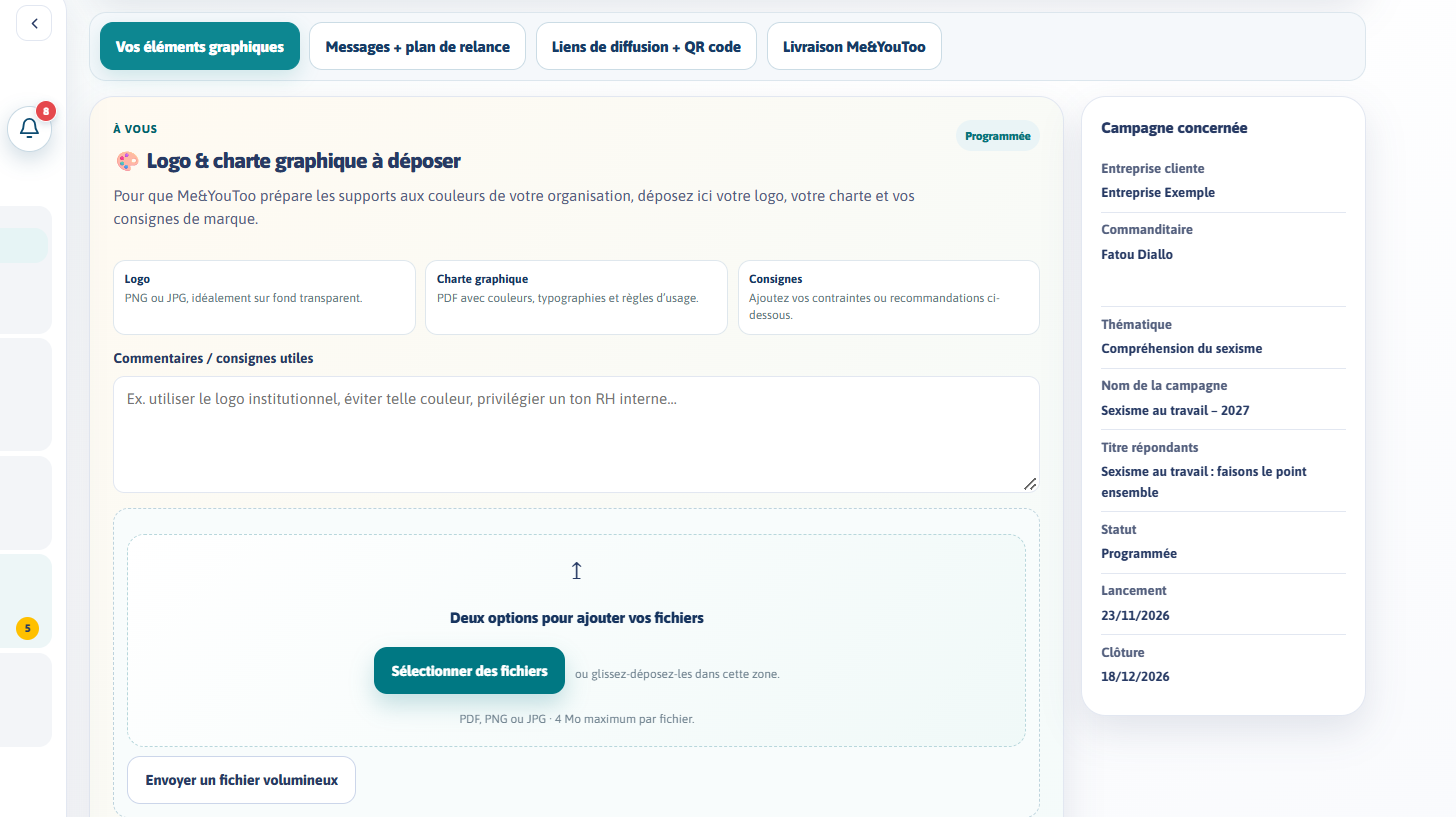
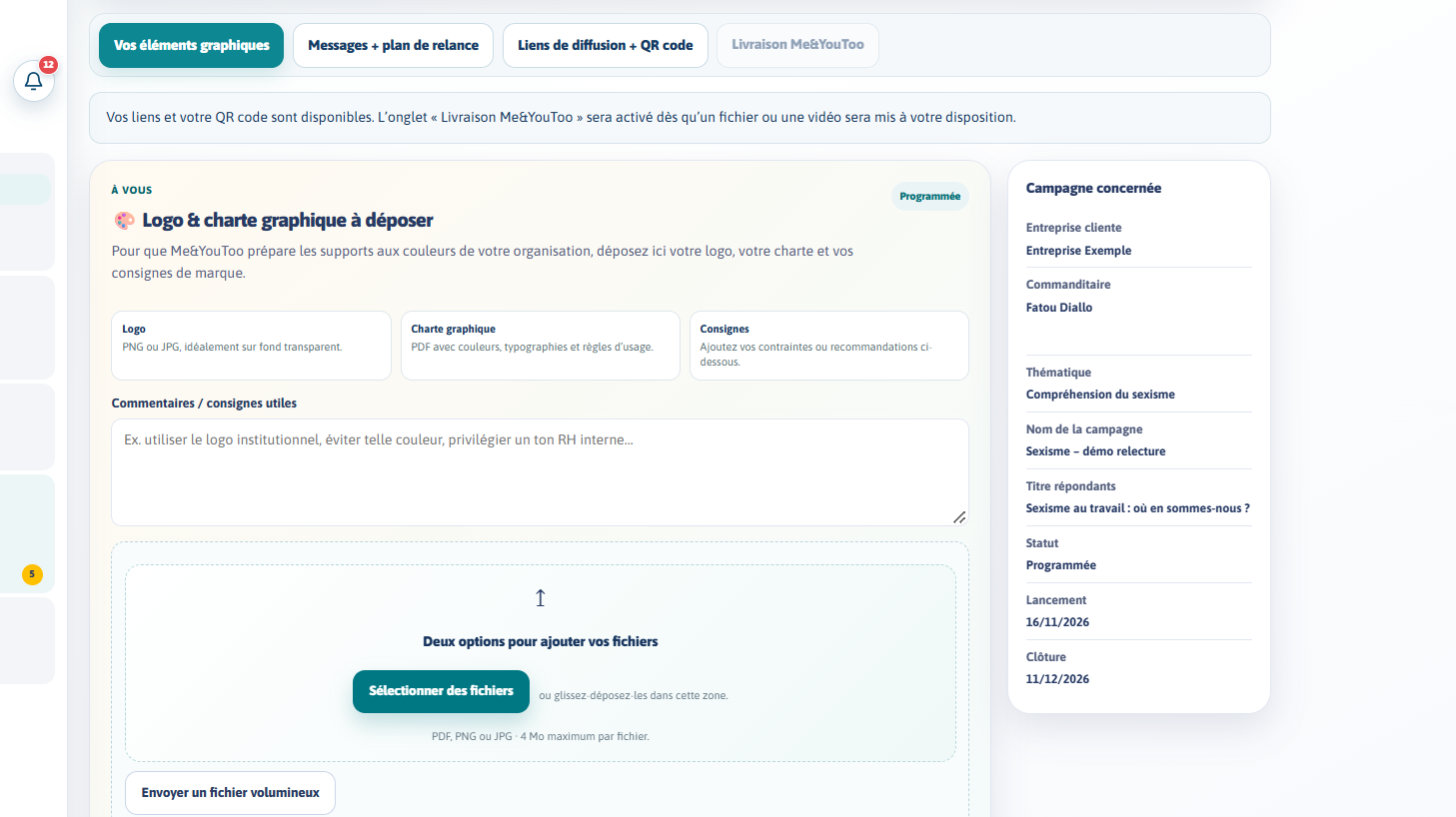
Tutoriel Diffuser : onglet Livraison grisé sur tous les écrans avant livraison

diff --git a/tutos/diffuser/index.html b/tutos/diffuser/index.html
@@ -12,7 +12,7 @@
 <script>
 // Captures du 3 novembre 2026 : compte de démonstration Fatou Diallo, Entreprise Exemple, campagne #348
 // (Sexisme au travail – 2027, programmée) ; adresse e-mail de la commanditaire masquée.
-// Captures 1 et 5 refaites le 4 novembre 2026 (nouveau QR code) ; la 1 vient de la campagne #350, sans livraison : l’onglet « Livraison Me&YouToo » y est grisé.
+// Captures 1, 2, 3 et 5 refaites le 4 novembre 2026 sur la campagne #350, sans livraison : l’onglet « Livraison Me&YouToo » y est grisé (nouveau QR code). La 6 reste sur #348, qui a des fichiers livrés.
 // Cadres en % de la capture : [gauche, haut, largeur, hauteur]. Pour caler la voix : audio:'voix.mp3' et « at » (secondes) sur chaque plan.
 window.TUTO={
   eyebrow:'Tutoriel · Après la transmission',
@@ -23,12 +23,12 @@ window.TUTO={
     {img:'ecran-1.png',box:[7.4,36.4,89.6,14.4],text:'Le Studio vous montre où vous en êtes, étape par étape, de la composition de votre diagnostic jusqu’au kit livré par Me&YouToo.'},
     {img:'ecran-1.png',box:[6.4,56.2,61.5,7.4],text:'Le kit s’organise en quatre onglets : vos éléments graphiques, les messages et le plan de relance, les liens et le QR code, et la livraison Me&YouToo.'},
     {img:'ecran-1.png',box:[54.6,56.3,13.2,7.1],text:'L’onglet « Livraison Me&YouToo » reste grisé tant que notre équipe n’a rien déposé. Il s’active dès qu’un fichier ou une vidéo est à votre disposition.'},
-    {img:'ecran-2.png',box:[7.8,11.8,64.6,29],text:'Premier onglet : déposez votre logo, votre charte graphique et vos consignes. Me&YouToo prépare les supports à vos couleurs.'},
-    {img:'ecran-2.png',box:[7.8,62.4,64.6,30],text:'Glissez vos fichiers dans cette zone, ou utilisez « Envoyer un fichier volumineux » si vos documents sont trop lourds pour être déposés ici.'},
-    {img:'ecran-3.png',box:[7.8,11.8,64.6,54.7],text:'Deuxième onglet : le plan de relance conseillé, avec les dates calculées pour votre campagne. Vous savez ainsi quand communiquer, du lancement à la clôture.'},
+    {img:'ecran-2.png',box:[6.2,19.6,61.8,27.1],text:'Premier onglet : déposez votre logo, votre charte graphique et vos consignes. Me&YouToo prépare les supports à vos couleurs.'},
+    {img:'ecran-2.png',box:[7.6,66.3,59,33.4],text:'Glissez vos fichiers dans cette zone, ou utilisez « Envoyer un fichier volumineux » si vos documents sont trop lourds pour être déposés ici.'},
+    {img:'ecran-3.png',box:[6.1,21.9,70.3,57.3],text:'Deuxième onglet : le plan de relance conseillé, avec les dates calculées pour votre campagne. Vous savez ainsi quand communiquer, du lancement à la clôture.'},
     {img:'ecran-4.png',box:[7.8,1.4,64.6,97.6],text:'Des messages prêts à copier : e-mail de lancement, message aux managers, relances, Teams ou Slack, intranet. Ils contiennent déjà le nom, les dates et le lien de votre campagne.'},
-    {img:'ecran-5.png',box:[5.7,10.6,65.6,38.6],text:'Troisième onglet : le lien de votre campagne et celui de vos résultats. Ne diffusez pas le lien avant la date de lancement.'},
-    {img:'ecran-5.png',box:[5.7,50.9,65.6,46.2],text:'Le QR code est créé automatiquement à partir du lien de votre campagne, avec votre logo s’il est renseigné dans votre compte. Téléchargez-le en PNG, ou en SVG pour l’impression.'},
+    {img:'ecran-5.png',box:[6.2,18.4,61.8,36.2],text:'Troisième onglet : le lien de votre campagne et celui de vos résultats. Ne diffusez pas le lien avant la date de lancement.'},
+    {img:'ecran-5.png',box:[6.2,56.6,61.8,43],text:'Le QR code est créé automatiquement à partir du lien de votre campagne, avec votre logo s’il est renseigné dans votre compte. Téléchargez-le en PNG, ou en SVG pour l’impression.'},
     {img:'ecran-6.png',box:[7.8,17.8,64.6,66.4],text:'Dernier onglet, une fois activé : les affiches, visuels et vidéos préparés par Me&YouToo. Vous êtes averti par e-mail dès qu’un nouvel élément est disponible.'}
   ],
   end:{title:'Votre kit est prêt',text:'Diffusez le lien à la date de lancement et suivez la participation depuis Mes campagnes. Une question ? Le chat et l’équipe Me&YouToo sont là pour vous.'}
